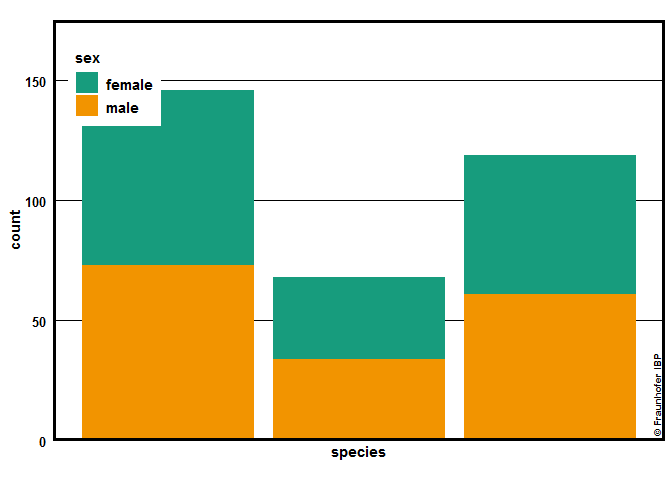
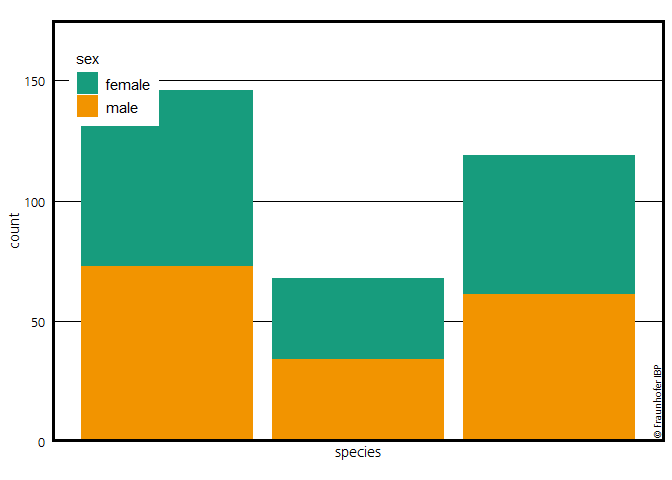
added frutiger support

diff --git a/README.md b/README.md
@@ -8,11 +8,13 @@
 <!-- badges: end -->
 
 Stellt ein theme\_ibp für ggplot zur Vefügung. Zusätzlich einige
-`scale_*` Funktionen mit Farben aus der CI vom Fraunhofer IBP.
+`scale_*` Funktionen mit Farben aus der CI vom Fraunhofer IBP. Außerdem
+eine kurze Einleitung, wie man die Fraunhofer Schriftart \``Frutiger` in
+R importiert und dann in den Plots verwedet.
 
 ## Installation
 
-Gibts bisher nur manual. Eventuell von Github über;
+Bisher nur über Github
 
 ``` r
 devtools::install_github("SebaStad/ggIBPplot")
@@ -20,7 +22,8 @@ devtools::install_github("SebaStad/ggIBPplot")
 
 ## Example
 
-This is a basic example which shows you how to solve a common problem:
+Hier einige Beispiele, welche Bibliotheken man benötigt und wie man die
+Funktionen verwenden kann.
 
 ``` r
 # remotes::install_github("allisonhorst/palmerpenguins")
@@ -31,6 +34,14 @@ library(scales)
 #> Warning: package 'scales' was built under R version 3.6.2
 library(prismatic)
 #> Warning: package 'prismatic' was built under R version 3.6.2
+
+# Wie bekommt man Schriftarten in R? über extrafont!
+library(extrafont)
+# extrafont::font_import()
+# Dieser Befehl importiert ALLE Schriftarten, die in Windows verfügbar sind nach R (dauert ca 10 min)! Auf den Fraunhofer Laptops sind die Frutiger Schriftarten in Windows vorhanden, daher auch verwendbar.
+
+# Um diese zu nutzen muss man diese dann noch laden:
+# extrafont::loadfonts()
 ## basic example code
 palmerpenguins::penguins %>% 
   na.exclude() %>% 
@@ -49,9 +60,6 @@ ggplot(data = ., aes(x=species)) +
 #> Zeichensatzfamilie in der Windows Zeichensatzdatenbank nicht gefunden
 #> Warning in grid.Call(C_textBounds, as.graphicsAnnot(x$label), x$x, x$y, :
 #> Zeichensatzfamilie in der Windows Zeichensatzdatenbank nicht gefunden
-
-#> Warning in grid.Call(C_textBounds, as.graphicsAnnot(x$label), x$x, x$y, :
-#> Zeichensatzfamilie in der Windows Zeichensatzdatenbank nicht gefunden
 ```
 
 <img src="man/figures/README-example-1.png" width="100%" />
@@ -63,7 +71,7 @@ palmerpenguins::penguins %>%
 {
 ggplot(data = ., aes(x=flipper_length_mm, y = body_mass_g)) +
   geom_point(aes(colour=species, shape = sex)) +
-  theme_ibp(y_pos_leg = 0.7, x_pos_leg = 0.12) +
+  theme_ibp(y_pos_leg = 0.7, x_pos_leg = 0.12, ibp_family = "Frutiger LT Com 55 Roman") +
   scale_x_ibp_cont() +
   scale_y_ibp_cont() +
   scale_colour_ibp() +
@@ -72,9 +80,63 @@ ggplot(data = ., aes(x=flipper_length_mm, y = body_mass_g)) +
 }
 #> Warning in grid.Call(C_textBounds, as.graphicsAnnot(x$label), x$x, x$y, :
 #> Zeichensatzfamilie in der Windows Zeichensatzdatenbank nicht gefunden
+
+#> Warning in grid.Call(C_textBounds, as.graphicsAnnot(x$label), x$x, x$y, :
+#> Zeichensatzfamilie in der Windows Zeichensatzdatenbank nicht gefunden
 ```
 
-<img src="man/figures/README-example-2.png" width="100%" />
+<img src="man/figures/README-example-2.png" width="100%" /> Hat man die
+Schriftart, die man verwenden möchte nicht installiert, passiert
+folgendes:
+
+``` r
+palmerpenguins::penguins %>% 
+  na.exclude() %>% 
+{
+ggplot(data = ., aes(x=flipper_length_mm, y = body_mass_g)) +
+  geom_point(aes(colour=species, shape = sex)) +
+  theme_ibp(y_pos_leg = 0.7, x_pos_leg = 0.12, ibp_family = "Testfont that doesnt exist") +
+  scale_x_ibp_cont() +
+  scale_y_ibp_cont() +
+  scale_colour_ibp() +
+  geom_fraunhofer_label() +
+  coord_fixed()
+}
+#> Warning in grid.Call(C_stringMetric, as.graphicsAnnot(x$label)):
+#> Zeichensatzfamilie in der Windows Zeichensatzdatenbank nicht gefunden
+
+#> Warning in grid.Call(C_stringMetric, as.graphicsAnnot(x$label)):
+#> Zeichensatzfamilie in der Windows Zeichensatzdatenbank nicht gefunden
+#> Warning in grid.Call(C_textBounds, as.graphicsAnnot(x$label), x$x, x$y, :
+#> Zeichensatzfamilie in der Windows Zeichensatzdatenbank nicht gefunden
+
+#> Warning in grid.Call(C_textBounds, as.graphicsAnnot(x$label), x$x, x$y, :
+#> Zeichensatzfamilie in der Windows Zeichensatzdatenbank nicht gefunden
+
+#> Warning in grid.Call(C_textBounds, as.graphicsAnnot(x$label), x$x, x$y, :
+#> Zeichensatzfamilie in der Windows Zeichensatzdatenbank nicht gefunden
+
+#> Warning in grid.Call(C_textBounds, as.graphicsAnnot(x$label), x$x, x$y, :
+#> Zeichensatzfamilie in der Windows Zeichensatzdatenbank nicht gefunden
+
+#> Warning in grid.Call(C_textBounds, as.graphicsAnnot(x$label), x$x, x$y, :
+#> Zeichensatzfamilie in der Windows Zeichensatzdatenbank nicht gefunden
+
+#> Warning in grid.Call(C_textBounds, as.graphicsAnnot(x$label), x$x, x$y, :
+#> Zeichensatzfamilie in der Windows Zeichensatzdatenbank nicht gefunden
+
+#> Warning in grid.Call(C_textBounds, as.graphicsAnnot(x$label), x$x, x$y, :
+#> Zeichensatzfamilie in der Windows Zeichensatzdatenbank nicht gefunden
+
+#> Warning in grid.Call(C_textBounds, as.graphicsAnnot(x$label), x$x, x$y, :
+#> Zeichensatzfamilie in der Windows Zeichensatzdatenbank nicht gefunden
+#> Warning in grid.Call.graphics(C_text, as.graphicsAnnot(x$label), x$x, x$y, :
+#> Zeichensatzfamilie in der Windows Zeichensatzdatenbank nicht gefunden
+#> Warning in grid.Call(C_textBounds, as.graphicsAnnot(x$label), x$x, x$y, :
+#> Zeichensatzfamilie in der Windows Zeichensatzdatenbank nicht gefunden
+```
+
+<img src="man/figures/README-bad code-1.png" width="100%" />
 
 Die Linien für die “Grid”-Quadrate sind abhängig von den Daten der X und
 Y Achse, sowie der Aspekt-Ratio des Plots. Standardmäßig produziert
@@ -90,7 +152,7 @@ palmerpenguins::penguins %>%
 {
 ggplot(data = ., aes(x=flipper_length_mm, y = body_mass_g)) +
   geom_point(aes(colour=species, shape = sex)) +
-  theme_ibp(y_pos_leg = 0.7, aspect = 5/7.5) +
+  theme_ibp(y_pos_leg = 0.7, aspect = 5/7.5, ibp_family = "Felix Titling") +
   scale_x_ibp_cont() +
   scale_y_ibp_cont() +
   scale_colour_ibp() +
